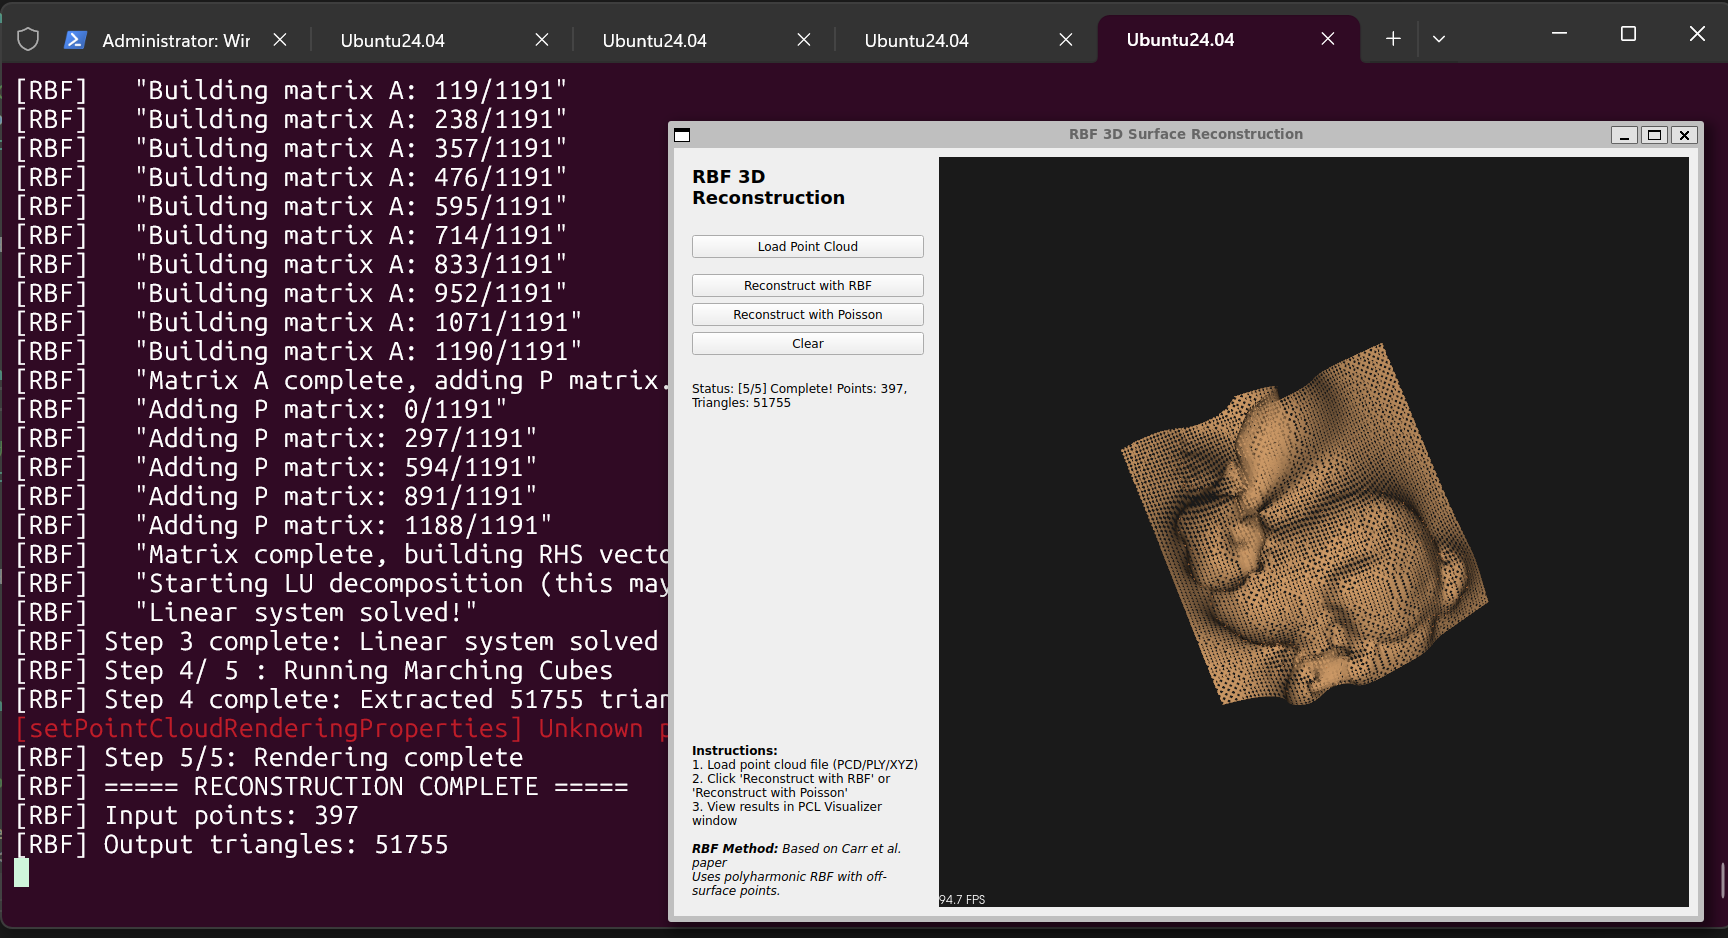
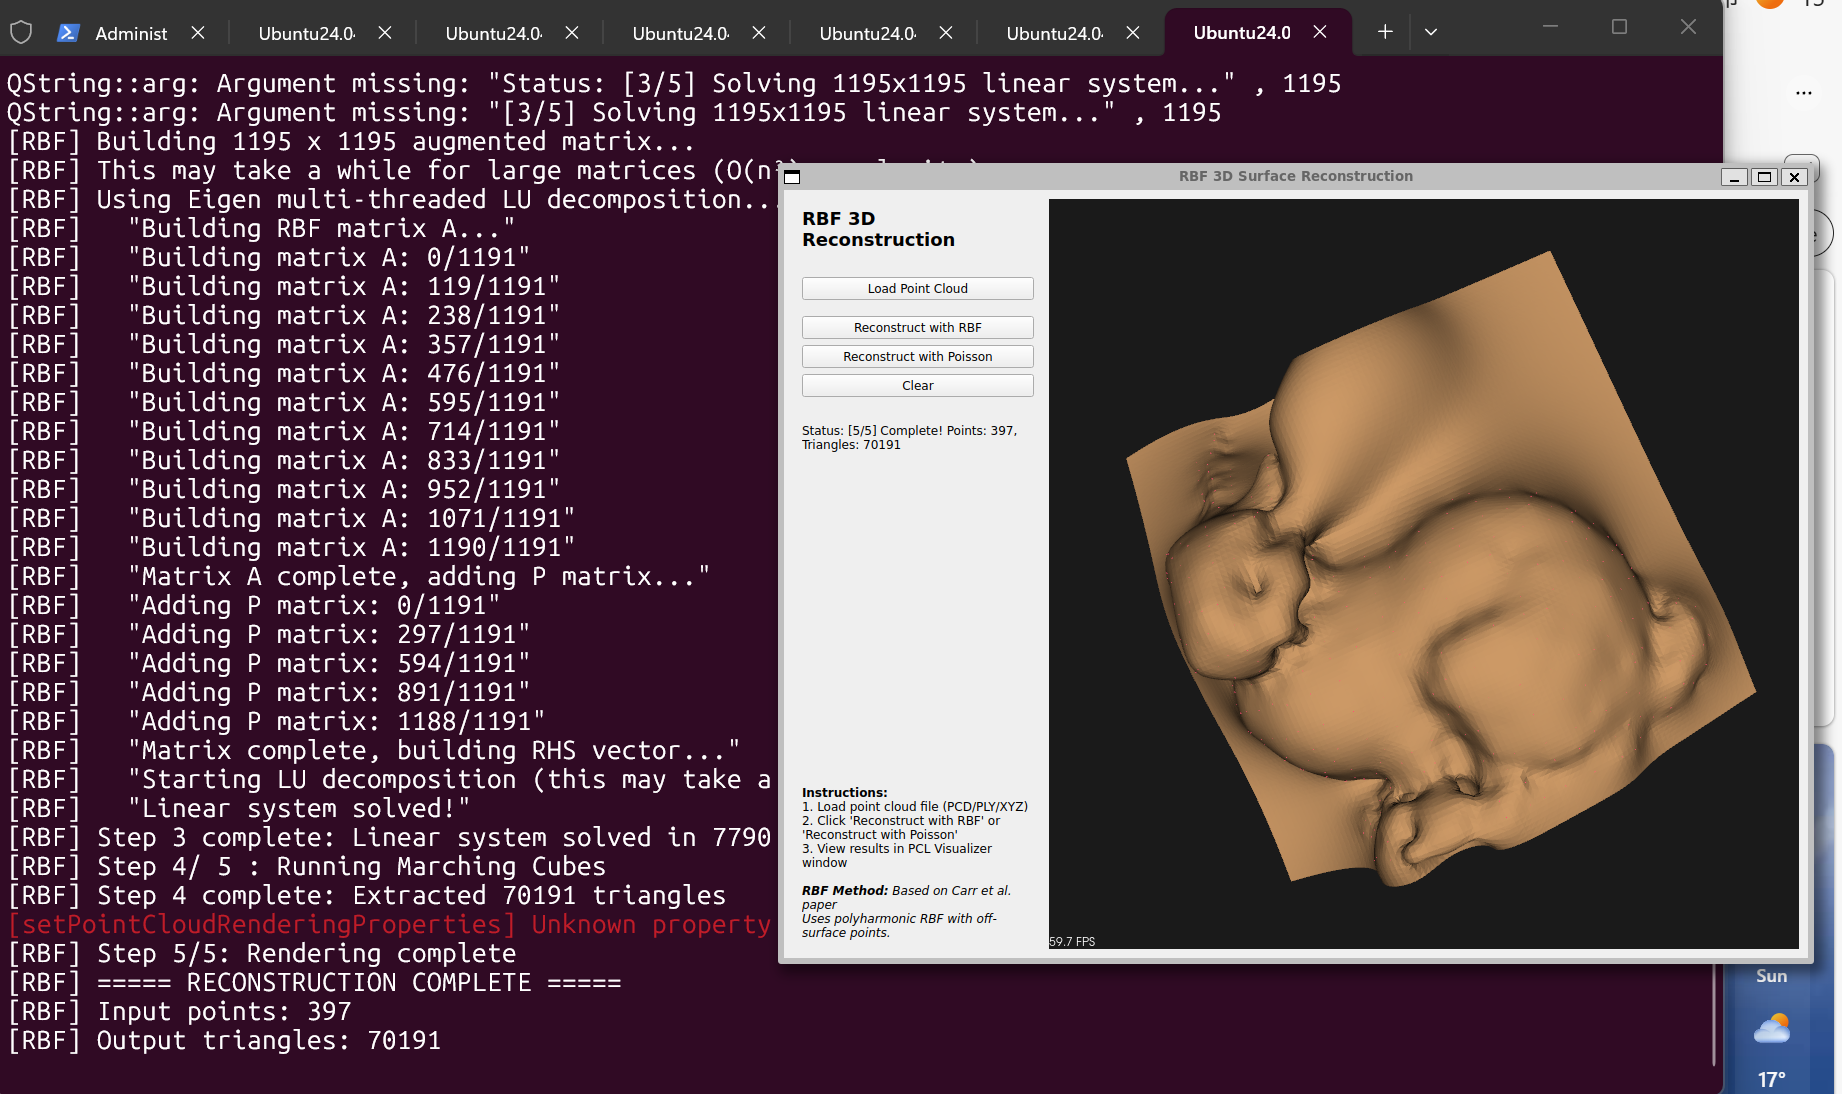
Fix Marching Cubes (#1)
* Fix Marching Cubes corner offset calculations for clarity and consistency

* Update RBF reconstruction image to reflect recent changes

diff --git a/src/core/MarchingCubes.cpp b/src/core/MarchingCubes.cpp
@@ -4,6 +4,22 @@
 
 namespace rbf {
 
+namespace {
+
+// 标准 Marching Cubes 角点编号，必须与 edgeTable/triTable 完全一致。
+constexpr int kCornerOffsets[8][3] = {
+    {0, 0, 0},
+    {1, 0, 0},
+    {1, 1, 0},
+    {0, 1, 0},
+    {0, 0, 1},
+    {1, 0, 1},
+    {1, 1, 1},
+    {0, 1, 1}
+};
+
+} // namespace
+
 // Marching Cubes 边表和三角表 (标准实现)
 static const int edgeTable[256] = {
     0x0, 0x109, 0x203, 0x30a, 0x406, 0x50f, 0x605, 0x70c,
@@ -410,9 +426,9 @@ void MarchingCubes::processCube(
     pcl::PointXYZ vertexPositions[8];
 
     for (int i = 0; i < 8; ++i) {
-        int dx = (i & 1) ? 1 : 0;
-        int dy = (i & 2) ? 1 : 0;
-        int dz = (i & 4) ? 1 : 0;
+        int dx = kCornerOffsets[i][0];
+        int dy = kCornerOffsets[i][1];
+        int dz = kCornerOffsets[i][2];
 
         vertexIndices[i] = (ix + dx) + (iy + dy) * resolution_ + (iz + dz) * resolution_ * resolution_;
         vertexValues[i] = gridValues[vertexIndices[i]];
@@ -490,13 +506,13 @@ uint64_t MarchingCubes::getEdgeKey(int ix, int iy, int iz, int edge) const {
     int v1 = edgeEndpoints[edge][1];
 
     // 计算端点的网格坐标偏移
-    int dx0 = (v0 & 1) ? 1 : 0;
-    int dy0 = (v0 & 2) ? 1 : 0;
-    int dz0 = (v0 & 4) ? 1 : 0;
+    int dx0 = kCornerOffsets[v0][0];
+    int dy0 = kCornerOffsets[v0][1];
+    int dz0 = kCornerOffsets[v0][2];
 
-    int dx1 = (v1 & 1) ? 1 : 0;
-    int dy1 = (v1 & 2) ? 1 : 0;
-    int dz1 = (v1 & 4) ? 1 : 0;
+    int dx1 = kCornerOffsets[v1][0];
+    int dy1 = kCornerOffsets[v1][1];
+    int dz1 = kCornerOffsets[v1][2];
 
     // 计算两个网格顶点的全局索引
     int idx0 = (ix + dx0) + (iy + dy0) * resolution_ + (iz + dz0) * resolution_ * resolution_;
@@ -541,13 +557,13 @@ int MarchingCubes::getOrCreateEdgeVertex(
     int v1 = edgeEndpoints[edge][1];
 
     // 计算端点的体素坐标偏移
-    int dx0 = (v0 & 1) ? 1 : 0;
-    int dy0 = (v0 & 2) ? 1 : 0;
-    int dz0 = (v0 & 4) ? 1 : 0;
+    int dx0 = kCornerOffsets[v0][0];
+    int dy0 = kCornerOffsets[v0][1];
+    int dz0 = kCornerOffsets[v0][2];
 
-    int dx1 = (v1 & 1) ? 1 : 0;
-    int dy1 = (v1 & 2) ? 1 : 0;
-    int dz1 = (v1 & 4) ? 1 : 0;
+    int dx1 = kCornerOffsets[v1][0];
+    int dy1 = kCornerOffsets[v1][1];
+    int dz1 = kCornerOffsets[v1][2];
 
     // 获取端点位置和值
     pcl::PointXYZ p0, p1;
